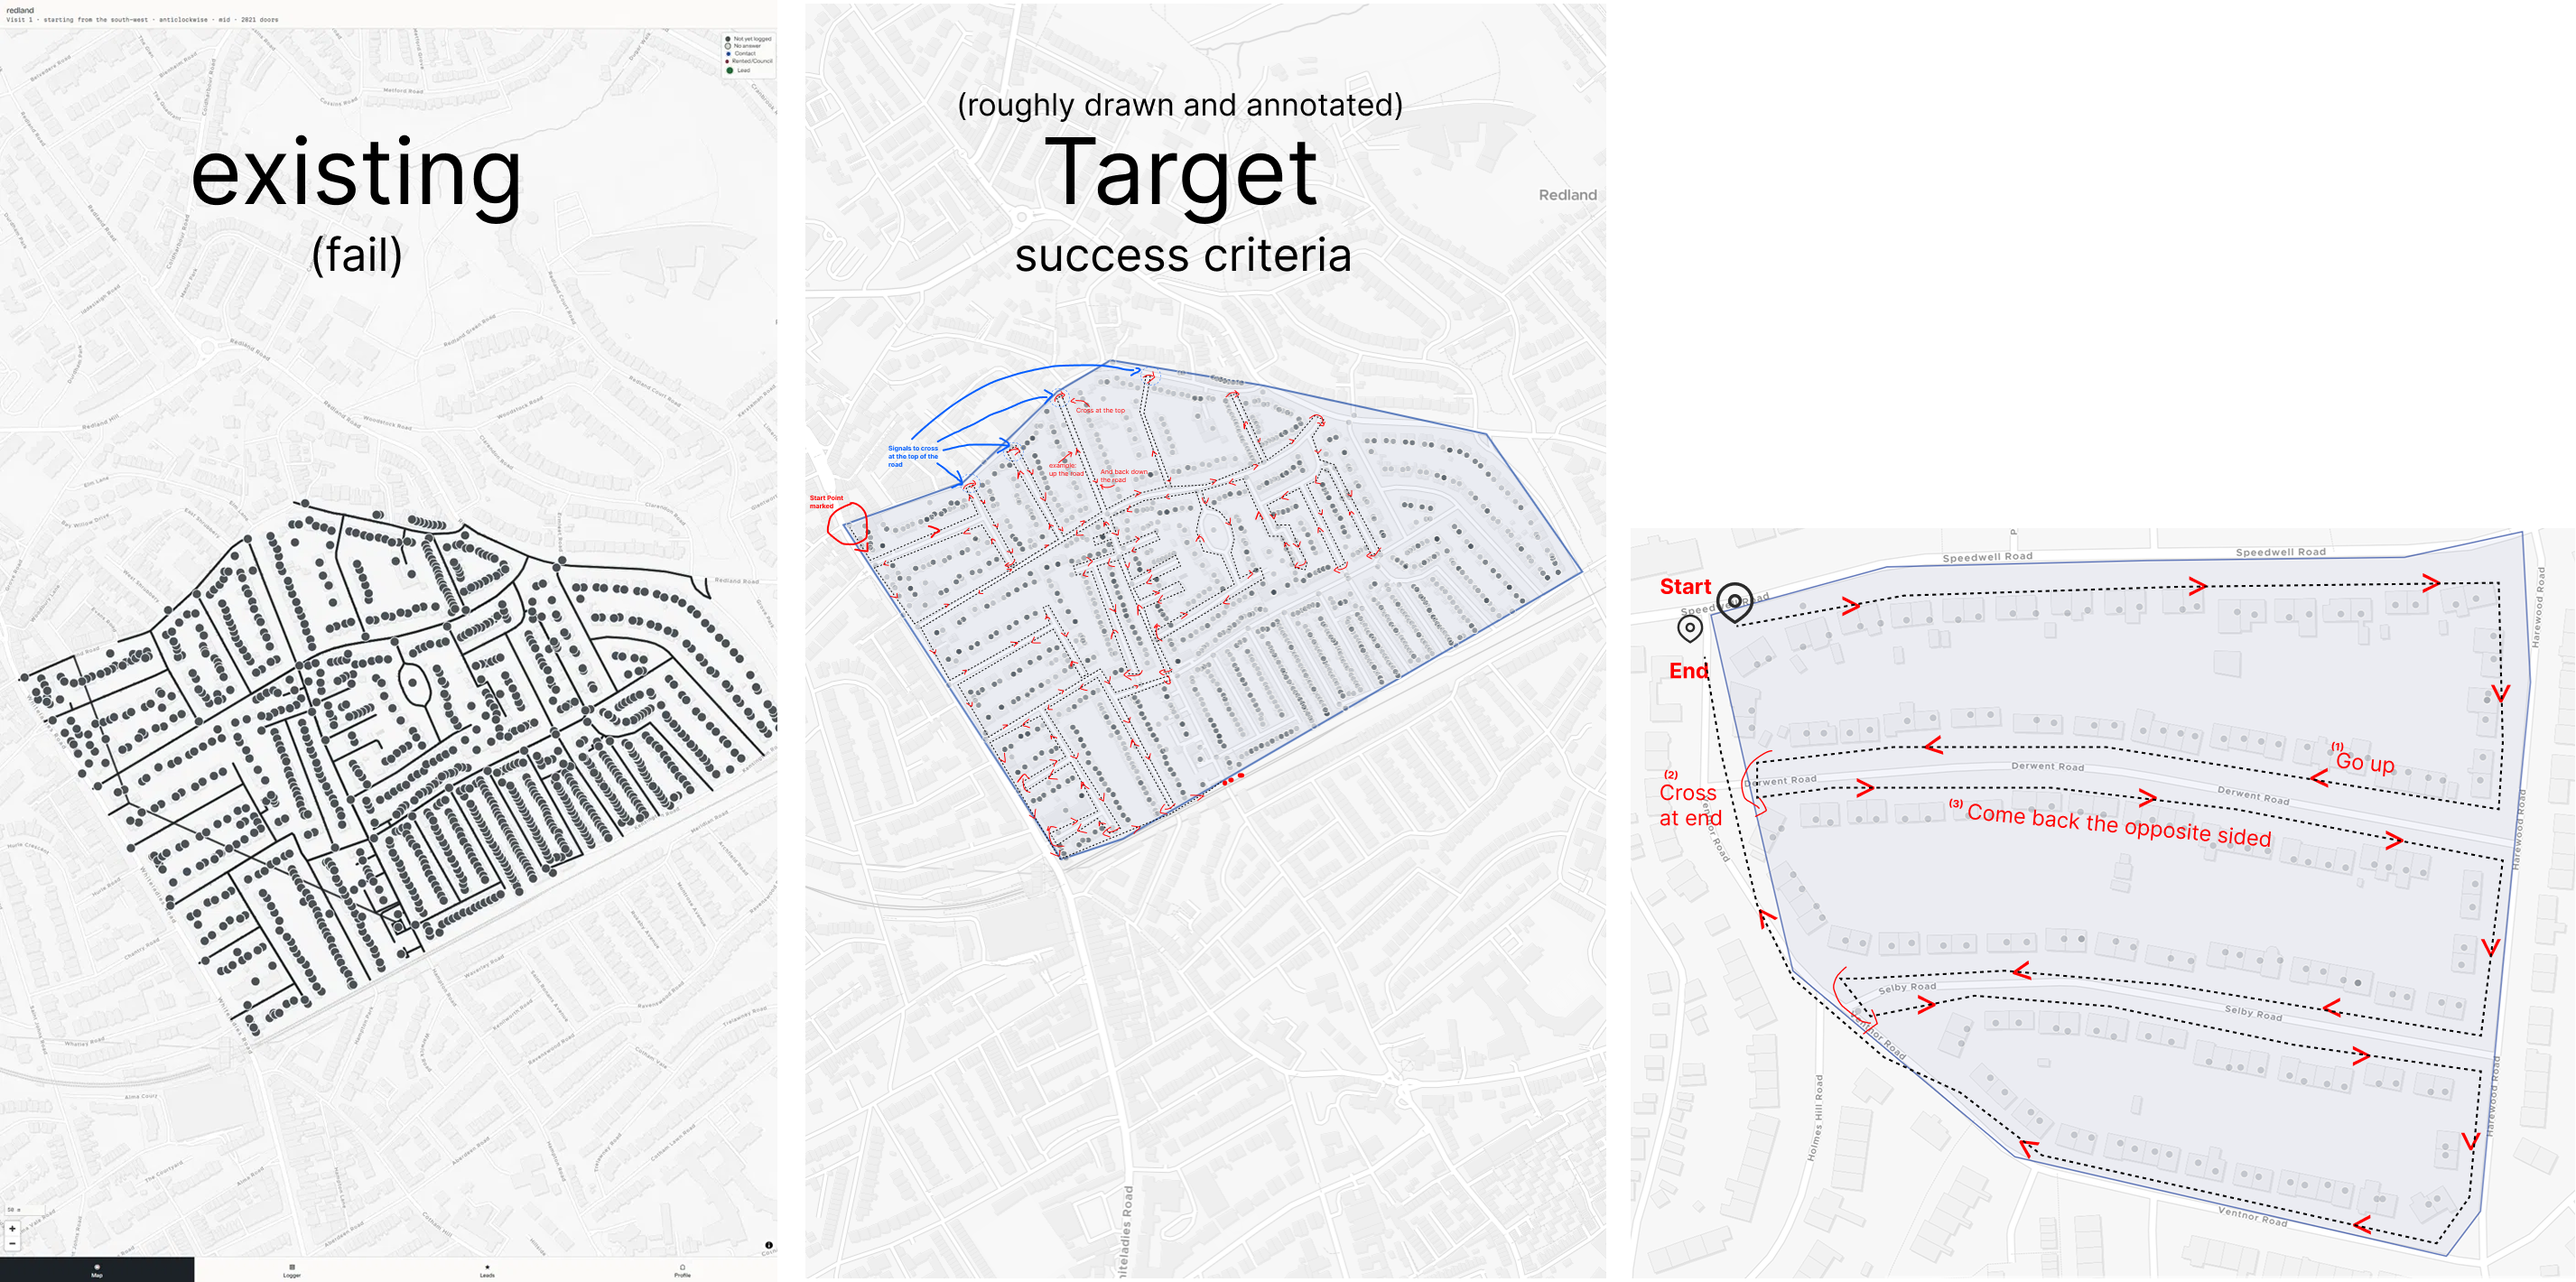
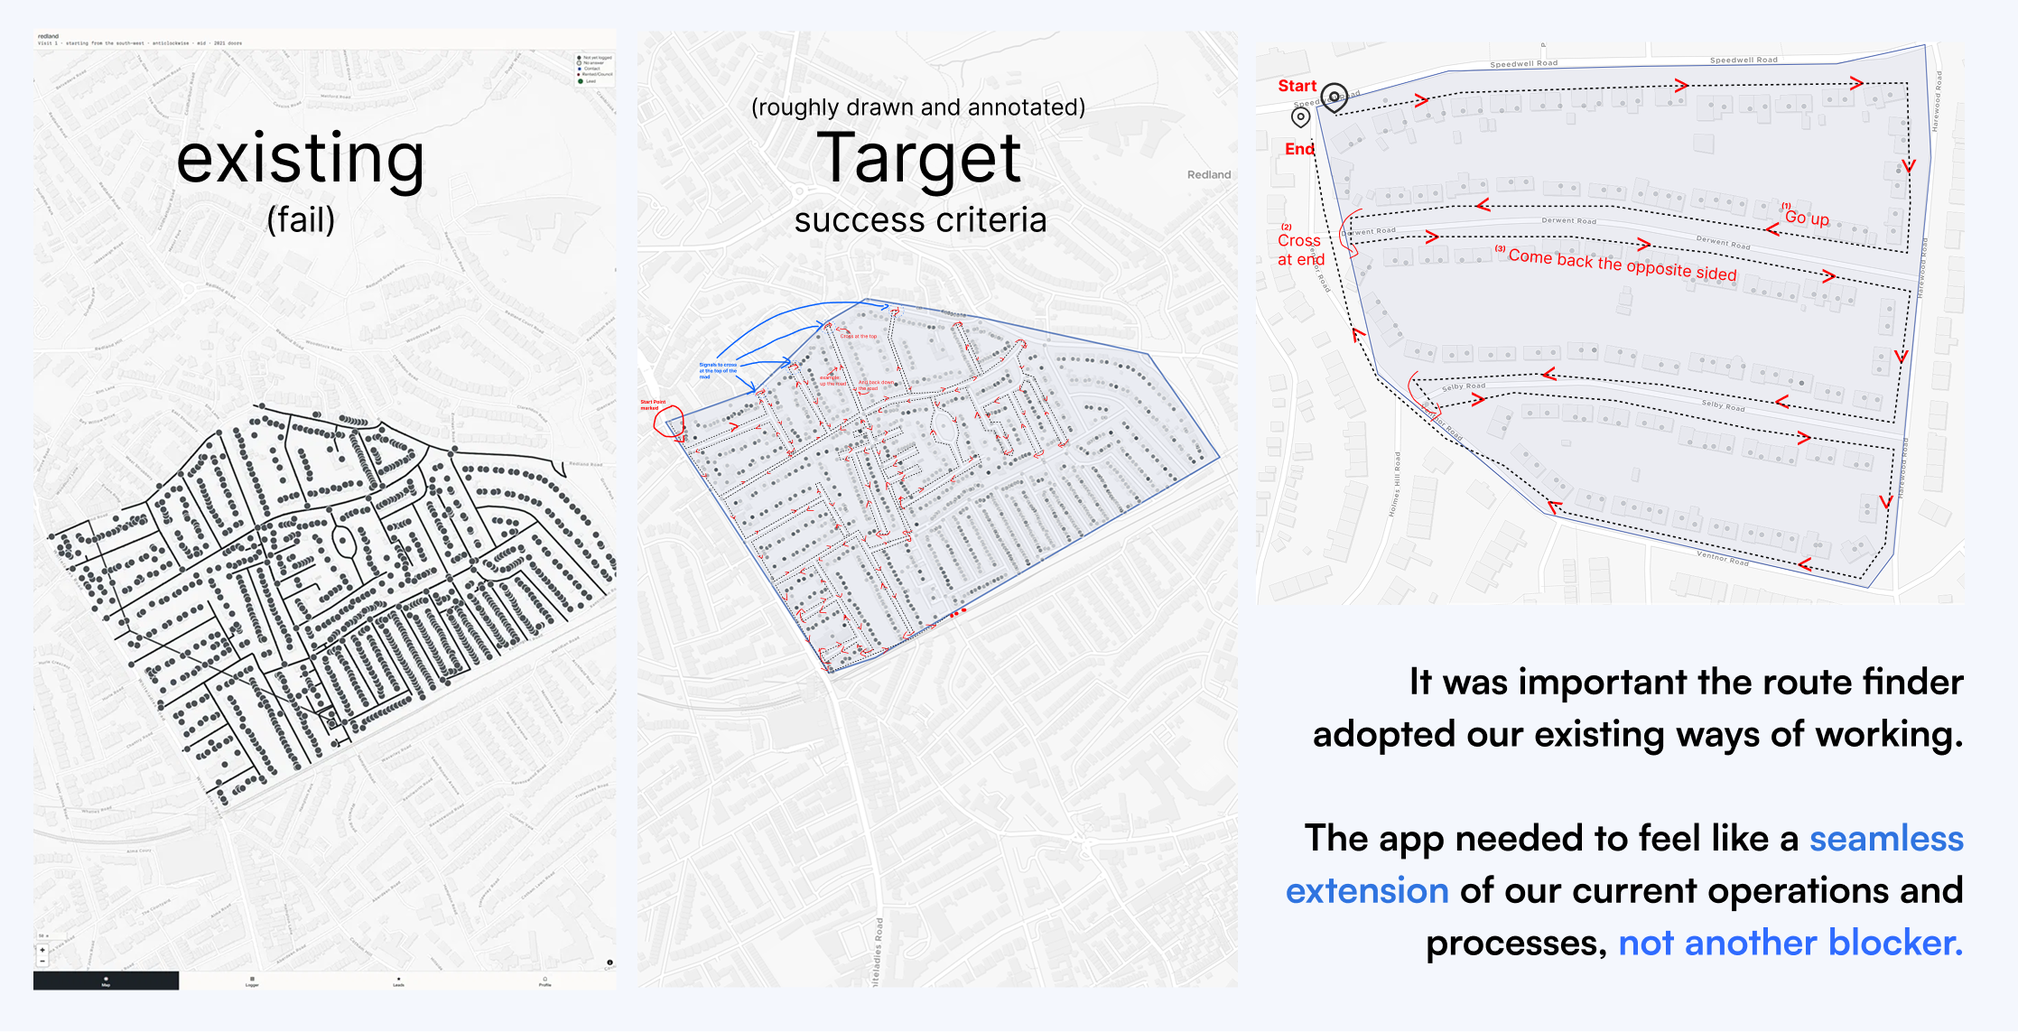
site-2-06: update hero and routes images, add manager flows, add routes image text to alt

diff --git a/src/data/canvasser.ts b/src/data/canvasser.ts
@@ -240,7 +240,7 @@ export const figures = {
   routes: [
     {
       file: 'routes-walking-rules.png',
-      alt: "Three route maps. Left, labelled existing (fail): the first generated route, crossing back and forth. Middle, labelled target: the team's hand-drawn route. Right: a simpler area with the rules written on it: go up one side, cross at the end, come back on the opposite side.",
+      alt: "Three route maps. Left, labelled existing (fail): the first generated route, crossing back and forth. Middle, labelled target: the team's hand-drawn route. Right: a simpler area with the rules written on it: go up one side, cross at the end, come back on the opposite side. The text beside them reads: It was important the route finder adopted our existing ways of working. The app needed to feel like a seamless extension of our current operations and processes, not another blocker.",
       caption: "Attempt 1 next to the team's own drawings. Their rules (go up, cross at the end, come back the other side) became the spec for attempt 2.",
     },
     {

diff --git a/docs/CLAUDE-HANDOFF.md b/docs/CLAUDE-HANDOFF.md
@@ -1,69 +1,38 @@
 # Handoff
 
-- **Item:** site-2-05
-- **Status:** done
+- **Item:** site-2-06
+- **Status:** blocked
 - **Files:**
-  - `src/data/canvasser.ts` (the `logger-sketch.png` entry only)
+  - `src/data/canvasser.ts` (the `routes-walking-rules.png` alt only)
   - `docs/BUILD-LOG.md`
   - `docs/CLAUDE-HANDOFF.md`
 - **Check results:**
   1. pass. `npm run build` exited 0. No warnings.
   2. pass. `git diff --stat -- package.json package-lock.json` printed nothing.
-  3. pass.
+  3. pass. Raw output:
      ```
-     ===== CHECK 3a =====
      1
-     ===== CHECK 3b =====
-     0
-     ===== CHECK 3c =====
-     10
      ```
-  4. pass. The dash grep printed nothing.
-  5. pass. Preview at http://127.0.0.1:4322/work/canvasser/.
+  4. fail. Expected 10. First run and re-run both printed:
      ```
-     1280 sketch panel
-     background rgb(244, 247, 253)
-     border-radius 20px
-     padding 32px
-     lead font-size 25px
-     text right 767
-     image left 815
-     image width 352
-     text right < image left
-
-     1280 context panel
-     background rgb(244, 247, 253)
-     border-radius 20px
-     padding 32px
-     lead font-size 25px
-
-     390x763
-     stacked, text top 113, image top 342.1
-     image width 284
-     lead font-size 22px, same as the context panel
-
-     375x667
-     stacked, text top 113, image top 342.1
-     image width 269
-     lead font-size 22px, same as the context panel
-
-     next figure, Round 2
-     slot--full, width 880 at 1280
-     caption: Round 2: the first Figma concepts, next to the sketches they came from and the record each tap would save.
+     11
      ```
-  6. pass. Horizontal overflow was 0 at 320, 375, 390, 430 and 1280 on `/work/canvasser/`.
-  7. pass. Screenshots: `Claude outputs/site-2-05/logger-1280.png`, `logger-390.png`.
-  8. pass. Raw `git status --short -uall`:
+     The eleven tags are hero, before-paper-survey, logger-sketch, logger-figma-concepts, logger-interaction-model, logger-shipped, routes-walking-rules, routes-generated, decision-sharing-pill, outcome-dashboard, manager-flows. Stopped after the second failure. The alt text was not changed again.
+  5. pass. The dash grep printed nothing.
+  6. not run. Stopped after check 4 failed twice. No screenshots.
+  7. fail. Raw `git status --short -uall` after the doc updates:
      ```
       M docs/BUILD-LOG.md
       M docs/CLAUDE-HANDOFF.md
+      M src/assets/canvasser/hero.png
       M src/assets/canvasser/logger-interaction-model.png
+      M src/assets/canvasser/routes-walking-rules.png
       M src/data/canvasser.ts
-     ?? "src/assets/canvasser/Key flows.png"
      ?? src/assets/canvasser/logger-figma-concepts.png
+     ?? src/assets/canvasser/manager-flows.png
      ```
-     The three site-2-05 paths are `M`. The other three paths are the owner's.
-- **Screenshots:** `Claude outputs/site-2-05/logger-1280.png`, `logger-390.png`
-- **Deviations:** During the checks, `src/assets/canvasser/hero.png` became a black 13KB file (182,774 bytes down to 13,157). It was restored from the last commit. It is not in the final status.
+     Expected `?? "src/assets/canvasser/Key flows.png"`. That path is absent. `?? src/assets/canvasser/manager-flows.png` is there instead. The other paths match.
+- **Screenshots:** none
+- **Deviations:** Check 4 is 11 because `manager-flows.png` is on disk and the outcome slot already points at that filename. The prompt expected `Key flows.png`, which would not match that slot. No image was renamed, restored or edited.
 - **Open questions:** none
-- **Next item:** none (waiting on the owner's typo-fixed images)
+- **Next item:** none (waiting on the owner's typo-fixed Logger images).

diff --git a/docs/BUILD-LOG.md b/docs/BUILD-LOG.md
@@ -67,3 +67,8 @@ Format:
 - Changed: src/data/canvasser.ts, docs/BUILD-LOG.md, docs/CLAUDE-HANDOFF.md
 - Checks: 1 pass, 2 pass, 3 pass, 4 pass, 5 pass, 6 pass, 7 pass, 8 pass
 - Notes: The Round 1 sketch uses the same aside panel as the Context survey. At 1280 both panels have a 20px radius, 32px padding and a 25px lead. The sketch text ends at 767px and the image starts at 815px, 352px wide. Round 2 stays full width at 880px with its caption. During the checks, hero.png was briefly a black 13KB file. It was restored from the last commit and is not part of this change.
+
+## site-2-06 · 2026-11-11 · blocked
+- Changed: src/data/canvasser.ts (routes-walking-rules.png alt only), docs/BUILD-LOG.md, docs/CLAUDE-HANDOFF.md
+- Checks: 1 pass, 2 pass, 3 pass, 4 fail, 5 pass, 6 not run, 7 fail
+- Notes: Check 4 printed 11 twice. Expected 10. The eleventh img is manager-flows.png. The prompt expected an untracked file named "Key flows.png". That file is not in src/assets/canvasser/. manager-flows.png is untracked instead, and it matches the existing outcome slot, so it renders. The alt text in EDIT 1 was left as specified. No image was touched. Checks 6 and 7 were not used to attempt a fix.
